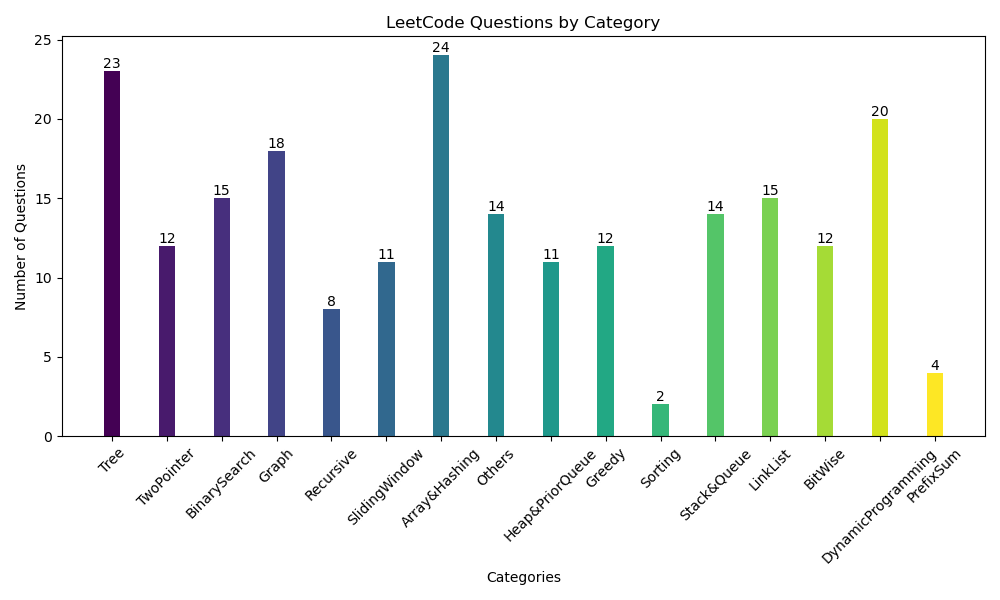
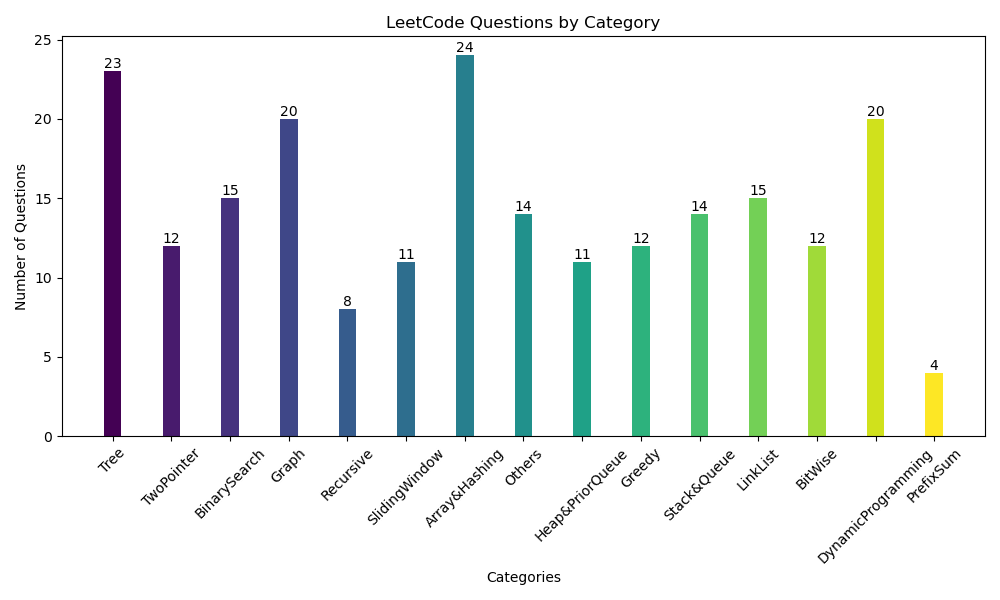
pratice BFS, MST

diff --git a/Graph/1584. Min Cost to Connect All Points.cpp b/Graph/1584. Min Cost to Connect All Points.cpp
@@ -1,0 +1,110 @@
+/*
+    1. Kruskal’s Algorithm
+    2. prim's algorithm
+*/
+class UnionFind {
+  public:
+	vector<int> parent;
+	vector<int> rank;
+	UnionFind(int x) {
+		for (int i = 0; i < x; ++i)
+			parent.push_back(i);
+		rank.resize(x, 1);
+	};
+	int Find(int x) {
+		if (parent[x] != x)
+			parent[x] = Find(parent[x]);
+		return parent[x];
+	};
+	bool Union(int x, int y) {
+		int root_x = Find(x);
+		int root_y = Find(y);
+		if (root_x == root_y)
+			return false; // this node is already in union set
+		if (rank[root_x] > rank[root_y])
+			parent[root_y] = root_x;
+		else if (rank[root_x] < rank[root_y])
+			parent[root_x] = root_y;
+		else {
+			parent[root_y] = root_x;
+			++rank[root_x];
+		}
+		return true;
+	};
+};
+/*
+    1. prim's algorithm
+*/
+class Solution {
+  public:
+	int minCostConnectPoints(vector<vector<int>> &points) {
+		// calculate all edge
+		int n = points.size();
+		vector<tuple<int, int, int>> edges(n);
+		// calculate all edges
+		for (int i = 0; i < n; ++i) {
+			for (int j = 1; j < n; ++j) {
+				int w = abs(points[i][0] - points[j][0]) +
+				        abs(points[i][1] - points[j][1]);
+				edges.push_back({w, i, j});
+			}
+		}
+		// sort edges increasing
+		sort(edges.begin(), edges.end(),
+		     [](tuple<int, int, int> &a, tuple<int, int, int> &b) {
+			     return get<0>(a) < get<0>(b);
+		     });
+		// union from edges, and union will detect if this edge will be
+		// cycle(already in component)
+		UnionFind uf(n);
+		int cost = 0;
+		for (int i = 0; i < edges.size(); ++i) {
+			auto [w, u, v] = edges[i];
+			if (uf.Union(u, v)) {
+				cost += w;
+			}
+		}
+
+		return cost;
+	}
+};
+/*
+    1. prim's algorithm
+*/
+class Solution {
+  public:
+	int minCostConnectPoints(vector<vector<int>> &points) {
+		// calculate all edge
+		int n = points.size();
+		vector<vector<pair<int, int>>> graph(n); // {weight, node}
+		unordered_set<int> visit;
+		priority_queue<pair<int, int>, vector<pair<int, int>>, greater<>>
+		    min_heap;
+		// create completed graph with all edge weight
+		for (int i = 0; i < n; ++i) {
+			for (int j = i + 1; j < n; ++j) {
+				int w = abs(points[i][0] - points[j][0]) +
+				        abs(points[i][1] - points[j][1]);
+				graph[i].push_back({w, j});
+				graph[j].push_back({w, i});
+			}
+		}
+		// start from random node(start from node 0)
+		min_heap.push({0, 0});
+		int cost = 0; // check if all node is spanning;
+		while (visit.size() < n && !min_heap.empty()) {
+			// used minimum weight every time;
+			auto [w, node] = min_heap.top();
+			min_heap.pop();
+			// cout << node << " " << w << endl;
+			if (visit.find(node) != visit.end())
+				continue;
+			cost += w;
+			visit.insert(node);
+			for (auto &nei : graph[node]) {
+				min_heap.push(nei);
+			}
+		}
+		return cost;
+	}
+};

diff --git a/BitWise/29. Divide Two Integers.cpp b/BitWise/29. Divide Two Integers.cpp
@@ -6,7 +6,7 @@
 class Solution {
   public:
 	int divide(int dividend, int divisor) {
-		// abs(INT_MIN) will overflow, need to hand it
+		// abs(INT_MIN) will overflow
 		if (dividend == INT_MIN && divisor == -1)
 			return INT_MAX;
 		long long a = abs((long long)dividend);
@@ -22,6 +22,43 @@ class Solution {
 			a -= (tmp_divisor >> 1); // substract current divisor remained a
 			res += cur_d;
 		}
+		bool same_sign = (dividend > 0) == (divisor > 0);
+		return same_sign ? res : -res;
+	}
+};
+
+/*
+    sol 2. 不用long long 的方法(記得b << 31可能overflow)
+    INTMIN / -1 會overflow, 這個例外要處理
+
+    把dividend(a), divisor(b) 都轉為neg處理(INT_MIN比INT_MAX多1比較好操作)
+
+    從bit 31 ~ 0 移動直到tmp_b(這次loop的b) >= a, a -= b, 移動的bit代表*2的次數,
+   loop直到原始b >= a
+*/
+class Solution {
+  public:
+	int divide(int dividend, int divisor) {
+		if (dividend == INT_MIN && divisor == -1)
+			return INT_MAX;
+		int a = dividend > 0 ? -dividend : dividend;
+		int b = divisor > 0 ? -divisor : divisor;
+		int res = 0;
+		// we continue substract b by bit shift, every shift will multiple 2 in
+		// divisor,
+		for (int i = 31; i >= 0; --i) {
+			int tmp = b << i;
+			if ((b >= INT_MIN >> i) &&
+			    tmp >= a) { // >= a的 i為我們需要的index, 記得要避免overflow neg
+				// cout << b << " " << tmp << " " << a <<endl;
+				// cout << i << endl;
+				res += (1 << i);
+				a -= tmp;
+			}
+		}
+		if (res == INT_MIN)
+			return res;
+		// 最後要判斷sign
 		bool same_sign = (dividend > 0) == (divisor > 0);
 		return same_sign ? res : -res;
 	}

diff --git a/Graph/3015. Count the Number of Houses at a Certain Distance I.cpp b/Graph/3015. Count the Number of Houses at a Certain Distance I.cpp
@@ -1,0 +1,59 @@
+// proficient
+// 38 minute
+/*
+    題目要求, 計算每個距離1 ~ n 的pair數量
+    1. 每個node 都去BFS 然後存進 vector<int> k 裡面,
+        time O(V (V+E))
+*/
+class Solution {
+  public:
+	vector<int> countOfPairs(int n, int x, int y) {
+		vector<int> p(n + 1, 0);
+
+		vector<vector<int>> graph(n + 1);
+		queue<int> bq;
+
+		for (int i = 1; i < n; ++i) {
+			graph[i].push_back(i + 1);
+			graph[i + 1].push_back(i);
+		}
+		// another edge
+		if (abs(x - y) > 1) {
+			graph[x].push_back(y);
+			graph[y].push_back(x);
+		}
+
+		// every node calculate distance
+		for (int i = 1; i <= n; ++i) {
+			bq.push(i);
+			int distance = 0;
+			vector<bool> visit(n + 1, false); // avoid run cycle
+			while (!bq.empty()) {
+				int size = bq.size();
+				// cout << size << " " << distance << endl;
+				if (distance > 0)
+					p[distance] += size;
+				++distance;
+				for (int j = 0; j < size; ++j) {
+					int house = bq.front();
+					bq.pop();
+					visit[house] = true;
+					// push neighbor into queue
+					// cout << house << ": ";
+					for (int &nei : graph[house]) {
+						if (!visit[nei]) {
+							// cout << nei << " ";
+							bq.push(nei);
+							visit[nei] = true;
+						}
+					}
+					// cout << endl;
+					//  push this pair into correspond distance
+				}
+			}
+			// break;
+		}
+		p.erase(p.begin());
+		return p;
+	}
+};

diff --git a/README.md b/README.md
@@ -1,8 +1,8 @@
 # LeetCode Problems
 
 ❌  can't resolve without solution: 24
-📝  can't resolve without hint: 162
-✅  resolve by self: 29
+📝  can't resolve without hint: 161
+✅  resolve by self: 30
 ## Tree
 - ❌ 105. Construct Binary Tree from Preorder and Inorder Traversal
 - 📝 PrefixTree
@@ -62,6 +62,7 @@
 ## Graph
 - ❌ islandTreasure
 - ❌ 1579. Remove Max Number of Edges to Keep Graph Fully Traversable
+- 📝 1584. Min Cost to Connect All Points
 - 📝 3342. Find Minimum Time to Reach Last Room II
 - 📝 Number of Connected Components in an Undirected Graph
 - 📝 GraphValidTree
@@ -76,6 +77,7 @@
 - 📝 maxLand
 - 📝 3341. Find Minimum Time to Reach Last Room I
 - 📝 rottingFruit
+- ✅ 3015. Count the Number of Houses at a Certain Distance I
 - ✅ 547. Number of Provinces
 - ✅ 463. Island Perimeter
 
@@ -160,7 +162,6 @@
 ## Greedy
 - ❌ MergeTripletsFormTarget
 - 📝 jumpGame
-- 📝   Code  Test Result  Testcase Testcase 2918. Minimum Equal Sum of Two Arrays After Replacing Zeros
 - 📝 763. Partition Labels
 - 📝 1007. Minimum Domino Rotations For Equal Row
 - 📝 678. Valid Parenthesis String
@@ -168,12 +169,9 @@
 - 📝 781.RabbitForest
 - 📝 860.LemonadeChange
 - 📝 jumpGame2
+- 📝 2918. Minimum Equal Sum of Two Arrays After Replacing Zeros
 - 📝 maxSubarray
 - 📝 846.HandofStraights
-
-## Sorting
-- 📝 basic_sort
-- 📝 customSort
 
 ## Stack&Queue
 - ❌ 1425. Constrained Subsequence Sum

diff --git a/Graph/README.md b/Graph/README.md
@@ -10,6 +10,10 @@ rottingFruit
 
 207. Course Schedule
 
+## Minimum Spanning Tree
+
+1584. Min Cost to Connect All Points
+
 ## Union Find
 
 547. Number of Provinces
